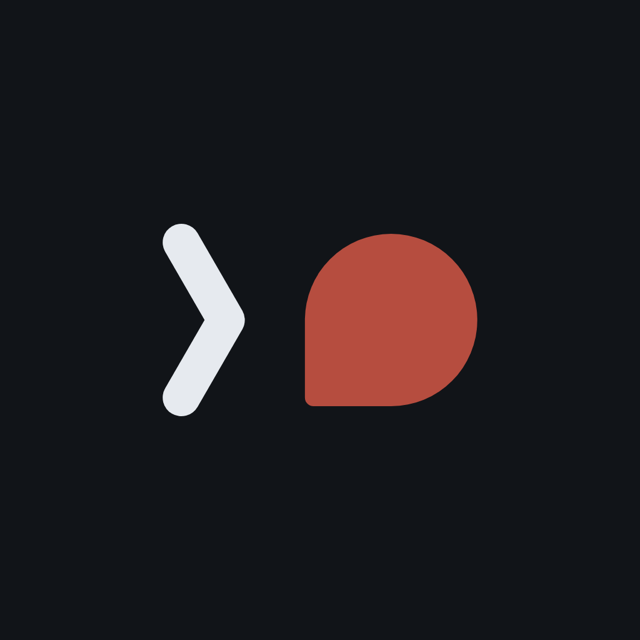
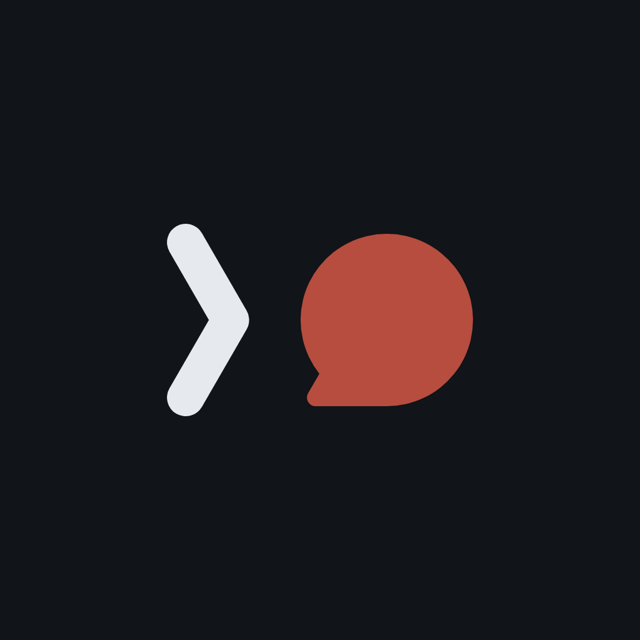
feat(client): take the standardized chatbot marks from barro-theme
The speech bubble keeps a full circle and gets a small tail cut at 60
degrees, so it reads as an o and as a bubble, and the letters follow
the spacing rule Favo's, Barro's and Irwin Arruda's logos share. The
mark fills three quarters of the icon tile instead of two thirds, so
the favicon reads better at 16 px. The README pictures are retaken with
the new title bar logo.

diff --git a/src/client/shared/components/terminal/AppShell.tsx b/src/client/shared/components/terminal/AppShell.tsx
@@ -81,7 +81,7 @@ function AppBrand() {
         className="h-5 w-auto"
         src={Logos[prefs.theme]}
         alt="The Chatbot"
-        width={106}
+        width={102}
         height={20}
       />
     </Link>

diff --git a/.agents/skills/client-jsx-styleguide/references/themes.md b/.agents/skills/client-jsx-styleguide/references/themes.md
@@ -9,7 +9,7 @@ The web app has two palettes, each with a dark and a light variant:
 
 `<html data-palette="barro" | "favo" data-theme="dark" | "light">`. Both values live in the `the-chatbot-prefs` cookie (`PrefsDTO`), so the server renders the chosen palette on the first paint; a cookie without `palette` reads as Barro, and one with a palette the schema does not know, such as the removed `terminal`, falls back to the default prefs. `togglePalette` and `toggleTheme` in `PrefsService` save the cookie and set the attributes through `CookiePrefsGateway`. The title bar's swatch button switches the palette and the sun or moon switches the variant.
 
-The logo is the brand, not the palette. It is the `>chatbot` wordmark, in the same rounded strokes as favo-cli's and Barro's, and its `o` is a speech bubble in Barro's brick, `#B64D3F`. The brick never changes; only the letters follow dark and light, through two files in `public/brand/`: `logo-dark.svg` has light letters for the dark variants and `logo-light.svg` dark letters for the light ones, and `AppShell` picks one from the theme. `logo.svg` has mid-gray letters for a place that cannot pick, and `mark*.svg` are the `>o` mark in the same three colors, all on a transparent background.
+The logo is the brand, not the palette. It is the `>chatbot` wordmark, in the same rounded strokes as favo-cli's and Barro's, and its `o` is a round speech bubble with a small 60° tail, in Barro's brick, `#B64D3F`. The marks are generated in barro-theme (`BRAND.md`) and copied into `public/brand/`. The brick never changes; only the letters follow dark and light, through two files in `public/brand/`: `logo-dark.svg` has light letters for the dark variants and `logo-light.svg` dark letters for the light ones, and `AppShell` picks one from the theme. `logo.svg` has mid-gray letters for a place that cannot pick, and `mark*.svg` are the `>o` mark in the same three colors, all on a transparent background.
 
 The favicon and app icon are the `>o` mark, a white chevron and the brick bubble, on a slate rounded tile: `icon.svg`, `apple-touch-icon.png` at 180 px (square, since iOS rounds it) and `icon-512.png` at 512 px. The `avatar*` files are the mark on a slate square, for profile pictures.
 

diff --git a/public/brand/README.md b/public/brand/README.md
@@ -1,6 +1,6 @@
 # The Chatbot brand
 
-Every brand asset of The Chatbot. They are final: use them as they are, and never redraw or recolor them. The bubble is always Barro's brick, `#B64D3F`.
+Every brand asset of The Chatbot. They are generated in [barro-theme](https://github.com/irwinarruda/barro-theme/blob/main/BRAND.md), which documents the lettering and its spacing, and copied here: use them as they are, and never redraw, recolor or edit them. The `o` is a round speech bubble with a small tail cut at 60°, like the letters. The bubble is always Barro's brick, `#B64D3F`.
 
 `favicon.ico`, the slate tile at 16, 32 and 48 px, is the one exception: it stays at the root of `public/`, because browsers ask for `/favicon.ico` by default.
 
